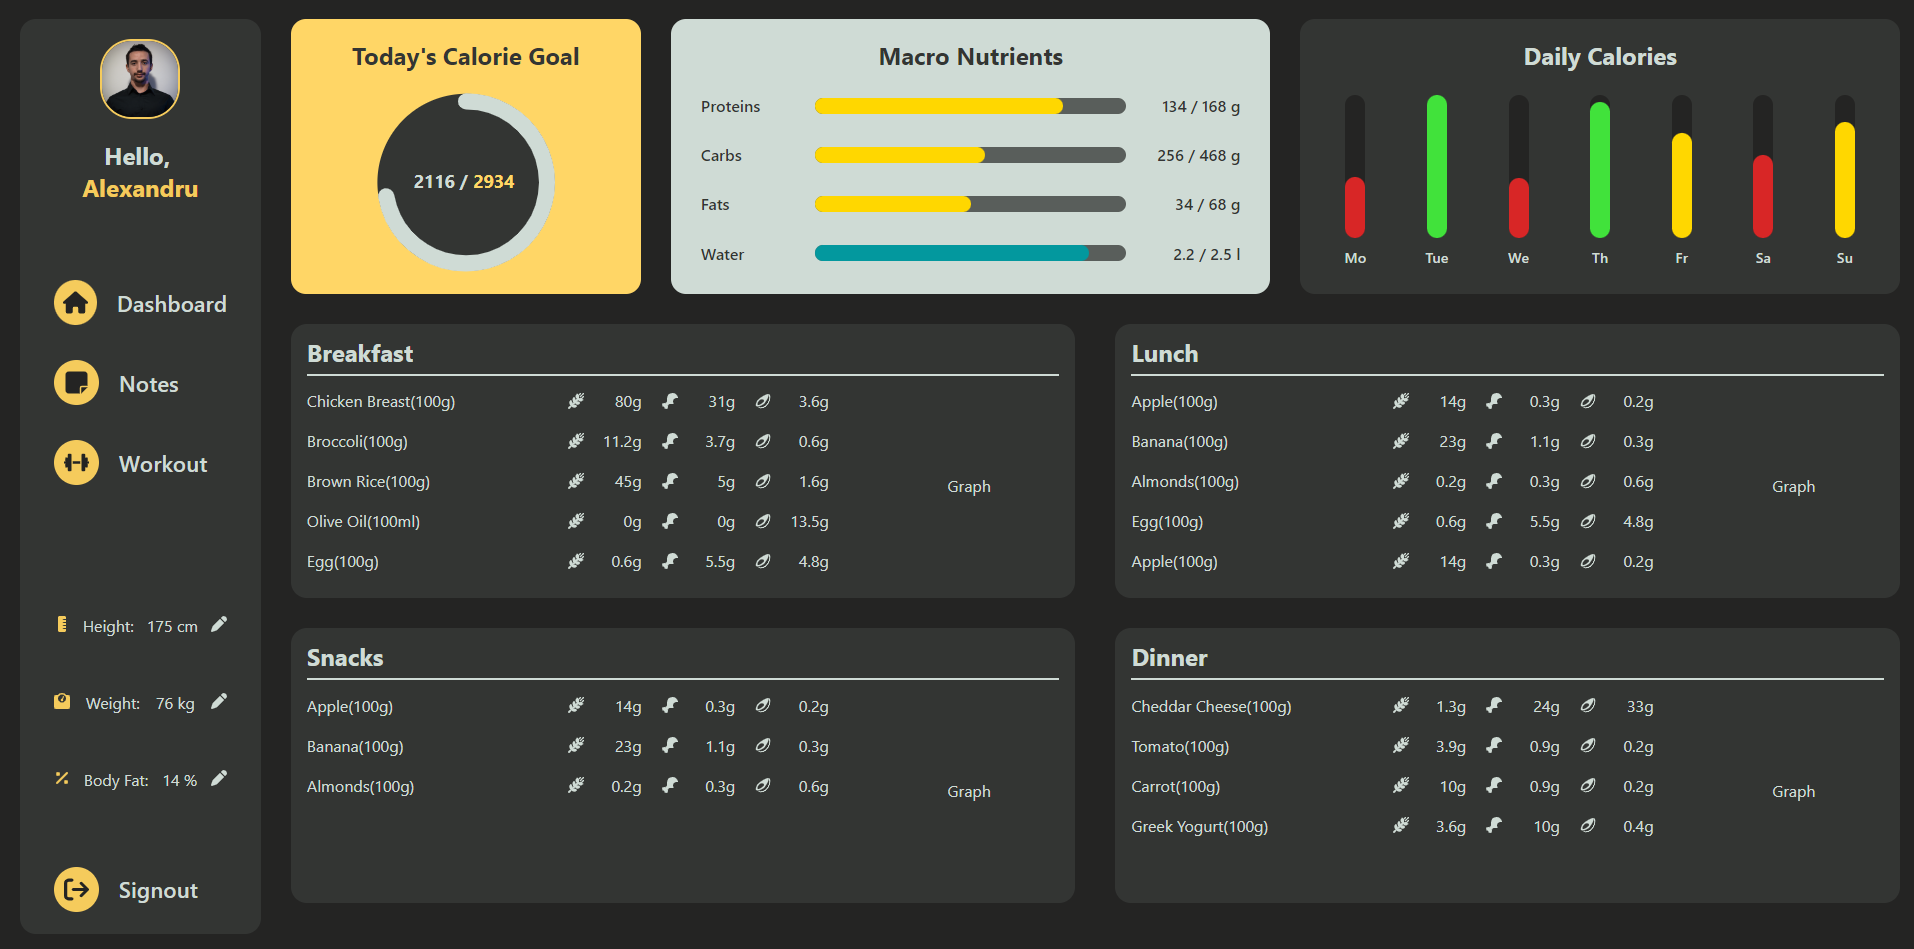
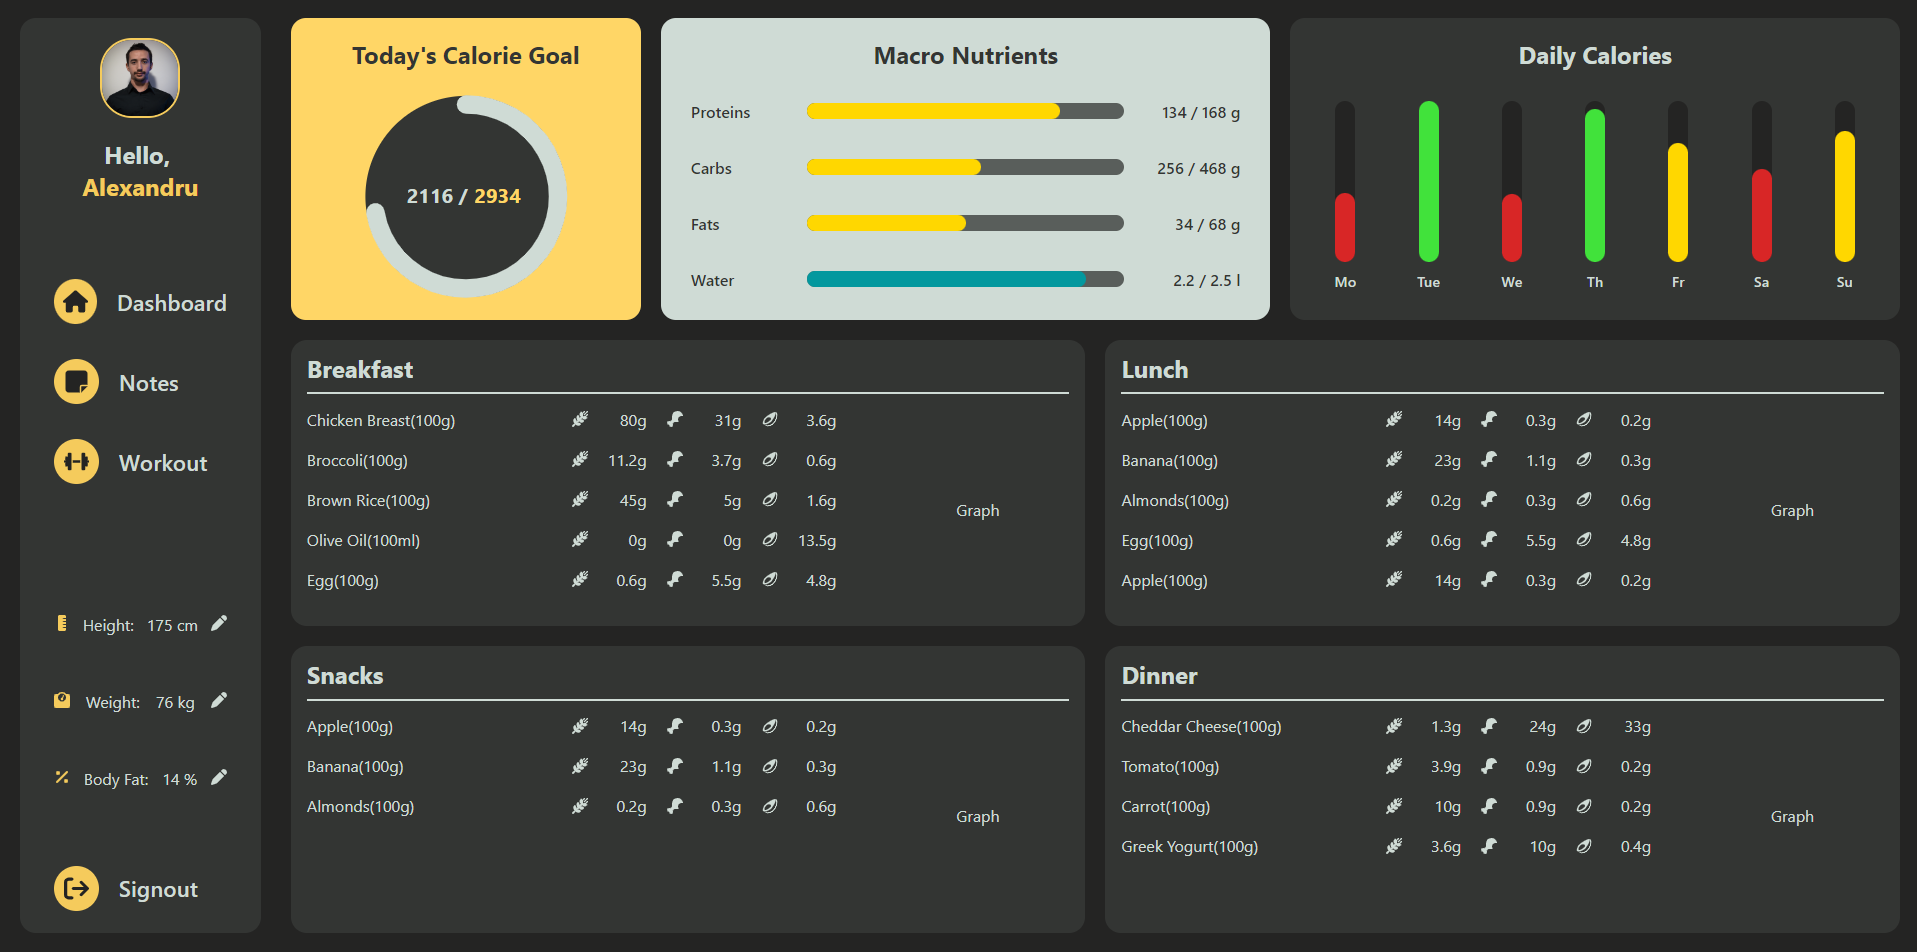
fixed cards and updated dashboard photo

diff --git a/src/Components/Card/Card.styles.tsx b/src/Components/Card/Card.styles.tsx
@@ -7,12 +7,12 @@ type CardContainerProps = {
 export const CardContainer = styled.div<CardContainerProps>`
   width: ${(props) =>
     props.size === "small"
-      ? "calc(20% - 20px)"
+      ? "calc(20% - 10px)"
       : props.size === "medium"
-      ? "calc(30% - 20px)"
+      ? "calc(30% - 10px)"
       : props.size === "large"
-      ? "calc(40% - 20px)"
-      : "calc(50% - 20px)"};
+      ? "calc(40% - 10px)"
+      : "calc(50% - 10px)"};
   min-width: 350px;
   height: 100%;
   padding: 12px 16px;

diff --git a/src/Pages/Dashboard/Dashboard.styles.tsx b/src/Pages/Dashboard/Dashboard.styles.tsx
@@ -6,13 +6,13 @@ export const DashboardWrapper = styled.div`
 
   display: flex;
   flex-direction: column;
-  gap: 30px;
+  gap: 20px;
 `;
 
 export const DashboardRow = styled.div`
   width: 100%;
-  height: 30%;
-  gap: 30px;
+  height: 33%;
+  gap: 20px;
   display: flex;
   align-items: center;
   justify-content: space-between;
